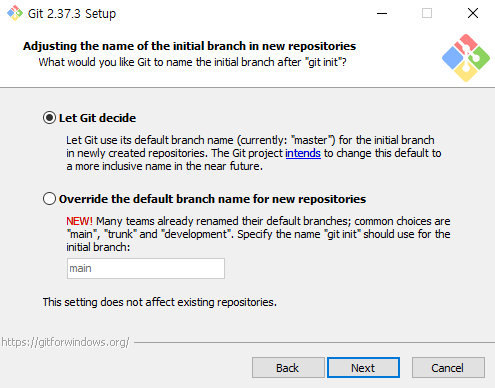
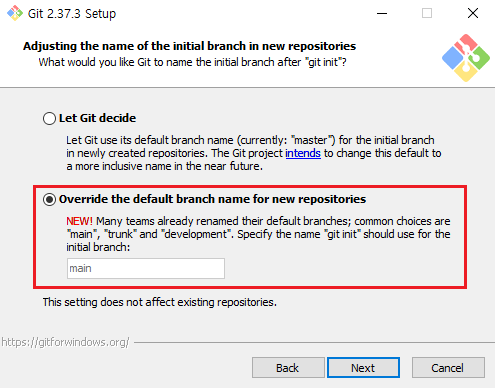
깃헙 베이스캠프 02-3장 수정

Changed region(s): [[0.0606, 0.4639, 0.9697, 0.7423], [0.0909, 0.2784, 0.1212, 0.3402]]

diff --git a/_md/basecamp-github/chapter02/02-1.md b/_md/basecamp-github/chapter02/02-1.md
@@ -8,7 +8,29 @@ date: 2024-12-14
 이번 장부터는 필요한 분들만 들으시면 됩니다. 주요한 내용으로는 개발자가 자주 사용하는 VSCode라는 툴에서 소스코드를 편집하고, 올리고, 합치고, 충돌이 났을 경우 해결하는 방법 등을 배웁니다. 디자이너나 기획자 분들이 배우기에는 다소 과한 챕터들이 있으니 참고해주세요.
 :::
 
-# 1. VSCode
+# 1. 필요한 소프트웨어
+
+이번 장에서는 깃헙을 컴퓨터에서 설치하여 사용하는 방법을 알아보도록 하겠습니다. 깃헙을 사용하기 위해서는 다음과 같은 소프트웨어가 필요합니다.
+
+1. VSCode
+2. Git
+
+Git만 설치하셔도 GitHub을 사용할 수 있지만, VSCode를 설치하면 더욱 편리하게 사용할 수 있습니다. 우리 수업에서는 순수하게 Git만 사용하는 것이 아니라 VSCode에서 편리하게 연동하여 사용할 수 있는 방법으로 가르쳐드립니다. 이렇게 강의를 하는 것은 2가지 이유가 있습니다.
+
+1. 실제로 실무에서도 Git만 켜고 사용하는 경우는 거의 없습니다. 대부분의 개발자들은 VSCode와 같은 툴을 사용하여 Git을 사용합니다.
+2. VSCode는 GitHub과 연동이 잘 되어 있어서 편리하게 사용할 수 있습니다.
+
+이 두가지 소프트웨어를 설치하고 설정하면 깃헙을 사용할 준비가 끝납니다. 이번 장에서는 VSCode를 설치하고 설정하는 방법을 알아보도록 하겠습니다.
+
+:::div{.callout}
+**Git과 GitHub의 차이점**
+
+Git은 버전 관리 시스템으로, 코드의 변경 이력을 관리하는 도구입니다. GitHub는 Git을 사용하는 프로젝트를 웹에서 관리할 수 있도록 한 웹 서비스입니다. 만든 사람도 다릅니다.
+
+쉽게 비유하자면 깃헙은 시간 여행이 가능한 구글드라이브고, 깃은 시간여행이 가능한 USB입니다. 공유가 되진 않지만 시간여행은 가능하죠. 엄격하게는 구분해야 하지만 보통 이 2개를 같은 의미로 말합니다.
+:::
+
+# 2. VSCode
 
 VSCode는 마이크로소프트에서 만든 무료 소스 코드 편집기입니다. GtiHub도 마이크로소프트에서 인수를 해서 둘 다 마이크로소프트에서 관리되고 있습니다. VSCode는 GitHub에서 `.`을 눌렀을 때 나오는 코드 편집기와 연동되며 같은 UI를 가지고 있습니다.
 
@@ -18,7 +40,7 @@ VSCode의 장점은 단지 에디터에만 있지 않습니다. 에디터와 연
 
 ![](/images/basecamp-github/ch02-1-1.png)
 
-# 2. VSCode 설치
+## 2.1 VSCode 설치
 
 VSCode는 무료로 설치할 수 있씁니다.
   
@@ -38,7 +60,7 @@ VSCode는 무료로 설치할 수 있씁니다.
 3. 작업할 폴더를 선택 후 '폴더 선택' 버튼 클릭
 :::
 
-# 3. VSCode 익스텐션
+## 2.2 VSCode 익스텐션
 
 익스텐션(Extension)은 VSC에 새로운 능력을 더해주는 '부가 기능'입니다. VSC는 심지어 인쇄를 할 수 있는 기능도 없습니다. 이러한 기능을 추가하기 위해 '부가 기능(익스텐션)'을 설치해야 합니다. VSC에 익스텐션을 추가하면, 코드 자동 완성, 디버깅 도구 등을 통해 코딩을 더 쉽고 빠르게 할 수 있습니다.
 
@@ -57,27 +79,82 @@ VSCode는 무료로 설치할 수 있씁니다.
 
 여기서는 GitHub과 관련된 익스텐션만 소개합니다. 설치를 안하셔도 실습을 하는데 무리가 없습니다.
 
-## 3.1 Git Graph
+### 2.1.1 Git Graph
 
 GitHub에서 내가 작업한 내용을 그래프로 보여주는 도구입니다. 버전을 커밋, 작업한 단위를 브랜치라고 부르는데요. 이 커밋과 브랜치를 시각화해주는 도구입니다.
 
-## 3.2 GitHub Copilot
+### 2.1.2 GitHub Copilot
 
 GitHub기반의 AI 기반 코드 자동 완성 도구입니다. ChatGPT와 Claude 등의 AI를 사용하여 코드를 작성할 때 도움을 줍니다. 실시간으로 추천을 해주기 때문에 코딩하는데 생산성을 극대화 시킬 수 있습니다. 위니브에서는 이 도구를 필수 도구로 지정하여 사용하고 있습니다. 해당 서비스는 유료 서비스이며, 개인/팀/기업용 요금제를 제공합니다.
 
-## 3.3 GitLens
+### 2.1.3 GitLens
 
 GitHub에 대한 상세 정보를 제공해주는 확장 프로그램입니다. 코드 작성자, 변경 이력 등을 확인할 수 있습니다.
 
-## 3.4 Gitmoji
+### 2.1.4 Gitmoji
 
 커밋 메시지에 이모지를 쉽게 추가할 수 있는 도구입니다. 보통 프로젝트를 시작할 때 어떤 이모지를 사용할지 정하고, 그 이모지를 사용하여 커밋 메시지를 작성합니다. 이렇게 하면 이모티콘 만으로도 어떤 작업을 했는지 분별할 수 있습니다.
 
 주요 이모지는 다음과 같습니다. `:lipstick:`와 같이 텍스트로도 작성할 수 있지만 보통은 익스텐션을 깔아서 손쉽게 추가합니다.
 
-✨ (sparkles): 새로운 기능 추가
-🐛 (bug): 버그 수정
-📝 (memo): 문서 업데이트
-🎨 (art): 코드 구조/포맷 개선
-⚡ (zap): 성능 개선
-💄 (lipstick): 화면 UI 개선
+* ✨ (sparkles): 새로운 기능 추가
+* 🐛 (bug): 버그 수정
+* 📝 (memo): 문서 업데이트
+* 🎨 (art): 코드 구조/포맷 개선
+* ⚡ (zap): 성능 개선
+* 💄 (lipstick): 화면 UI 개선
+
+# 3. Git
+
+앞서 깃헙을 시간 여행이 가능한 구글드라이고, 깃은 시간여행이 가능한 USB라고 비유했습니다. 깃은 리누스 토르발즈라는 분이, 깃헙은 톰 프레스턴워너(Tom Preston-Werner), 크리스 완스트래스(Chris Wanstrath), 피제이 하이엣(PJ Hyett)이 공동으로 회사를 설립하여 만든 서비스입니다.
+
+이렇게 시간여행을 가능하게 하여 코드를 관리할 수 있는 툴을 형상 관리(Configuration Management) 툴이라고 부릅니다. Git, SVN, CVS등에 툴이 있고 현재 가장 많이 사용되고 있는 것이 깃입니다.
+
+## 3.1 Git 설치
+
+::a[Git]{class='btn-link' href="https://git-scm.com/" target="\_blank"}
+
+위 서비스에 접속하여 알맞은 Download 버튼을 클릭하여 설치합니다. OS에 맞게 다운로드 버튼이 활성화 됩니다. 
+
+![](/images/basecamp-github/ch02-1-2.png)
+
+다만 설치할 때 옵션 중 변경하셔야 하는 옵션이 있습니다. 아래 이미지에서 하단에 `Override the default branch name for new repositories`를 체크해주세요. 이는 깃헙에서 사용하는 `main` 브랜치를 기본으로 사용하도록 설정하는 것입니다. 설정하지 않아도 문제가 되진 않지만 가능하면 변경하여 사용하는 것을 추천합니다.
+
+![](/images/github/chapter02-3-3.png)
+
+:::div{.callout}
+`master`라는 이름이 노예제를 연상시킨다고 하여 프로그래밍 언어에서도 이러한 언어를 사용하지 않는 추세입니다. 이를 `main`으로 변경하는 것이 추세이며, 깃헙에서도 `main`으로 변경되었습니다. 이를 변경하지 않아도 괜찮지만, 변경하는 것을 추천합니다.
+:::
+
+맥에는 이미 설치되어 있는 경우가 많으니 터미널에서 아래 명령어를 실행해보고 설치하세요.
+
+```bash
+$ git --version
+```
+
+# 4. 버전 확인 및 초기 설정
+
+VSCode를 실행시키고 `Terminal` > `New Terminal`을 클릭하여 터미널을 실행시킵니다. 단축키는 `Ctrl`을 누르고 빽틱(1 옆에 있는 특수문자)을 누르시면 됩니다. 터미널에서 아래 명령어를 입력하여 다운 받은 Git 버전을 확인할 수 있습니다.
+
+```bash
+$ git --version
+git version 2.37.3
+```
+
+Git을 사용하기 위해 사용자 정보를 설정합니다. 여기서 이름은 내가 깃헙에서 사용할 이름을, email은 깃헙 가입한 이메일을 입력합니다.
+
+:::div{.callout}
+🧐 해당 절차를 진행하지 않으면 뒤에 챕터에 푸쉬가 되지 않습니다.
+:::
+
+```bash
+$ git config --global user.name "hojun.lee"
+$ git config --global user.email email@example.com
+```
+
+제대로 입력이 되었는지 확인하기 위해 아래 명령어를 입력합니다.
+
+```bash
+$ git config --get user.name
+$ git config --get user.email
+```

diff --git a/_md/basecamp-github/chapter02/02-2.md b/_md/basecamp-github/chapter02/02-2.md
@@ -1,7 +1,66 @@
 ---
 chapter: 깃헙 상세히 살펴보기
-title: 실습환경 세팅
-date: 2024-12-14
+title: 기본명령어
+date: 2024-12-16
 ---
 
-# 1. 지금 바로 실습하세요
+# 1. 프로세스
+
+아래와 같은 프로세스로 작업이 진행됩니다. 여기서 `git init`과 같은 명령어는 다루지 않습니다. 이러한 명령어를 모두 다루면 처음에 의도했던 '초급자들이 허들을 넘기 위한 강의' 의미가 퇴색되기 때문입니다. 여기서는 개인 프로젝트를 하거나 다른 분들과 협업을 하는데 통상적으로 사용하는 명령어만 다룹니다.
+
+1. 레파지토리 생성
+2. 레파티토리 연결
+3. 수정한 파일 업로드(Commit, Push)
+4. 수정한 파일 다운로드(Pull)
+
+이 프로세스를 하나씩 실행해보도록 하겠습니다. 여기서 4번은 지금 실습하진 않습니다.
+
+# 2. 실습해보기
+
+아래와 같은 순서로 실습을 진행해보겠습니다.
+
+1. (1번) GitHub에서 레파지토리를 생성합니다. 가능하면 앞서 실습한 것처럼 README.md 파일 생성을 체크하셔서 생성해주세요. 그게 아니라면 GitHub에서 제시한 명령어들을 모두 터미널에 입력해야 합니다.
+2. (2번) 레파지토리에서 `Code` 버튼을 눌러서 주소를 복사합니다.
+    ![](/images/basecamp-github/ch02-2-1.png)
+3. (2번) 폴더를 하나 만들고, VSCode를 연다음 `File > Open Folder`를 클릭해주세요. 내가 만든 폴더를 클릭해주세요. 이 폴더와 레파지토리를 연결할 것입니다.
+4. (2번) 터미널을 열어서 `git clone 복사한주소`를 입력합니다. 터미널에서 붙여넣는 명령어는 `Ctrl + Shift + V` 또는 `Shift + Insert`입니다.
+5. (3번) VSCode에서 `test.txt` 파일을 만들어주세요. 그리고 터미널에 아래 순서대로 입력하고 엔터를 하나씩 입력해주세요.
+    1. `git add .`를 입력한 후 엔터
+    2. `git commit -m "커밋메시지"`를 입력한 후 엔터
+    3. `git push`를 입력한 후 엔터
+    4. GitHub 로그인 창이 뜨고 로그인 하면 파일이 업로드 됩니다.
+
+:::div{.callout}
+매번 로그인을 할 필요는 없습니다. 처음에 로그인을 하면 다음부터는 로그인을 하지 않아도 됩니다.
+:::
+
+# 3. 기본 명령어
+
+아래 4개 키워드를 기억해주세요. 각각 받아오고, 추가하고, 버전을 만들고, 보내는 것입니다.
+
+![](/images/github/chapter02-1-1.png)
+
+## 3.1 받아오기
+`git pull`명령어는 다른 사람이 올린 최신 변경사항을 내 컴퓨터로 가져옵니다. 마치 클라우드에서 파일을 다운로드하는 것처럼요. 항상 작업 시작 전에 실행하는 것이 좋습니다.
+
+## 3.2 추가하기
+`git add` 명령어는 내가 변경한 파일들을 깃허브에 올리기 위한 준비를 합니다. 택배를 보낼 때 물건을 박스에 담는 것과 비슷합니다. 
+* `git add .` : 모든 변경된 파일을 추가 (점(.)은 '모든 것'을 의미합니다)
+* `git add 파일명` : 특정 파일만 추가
+
+## 3.3 버전만들기 
+`git commit` 명령어는 변경사항에 대한 설명을 붙여서 하나의 버전으로 만듭니다. 택배 상자에 라벨을 붙이는 것과 같습니다.
+* `git commit -m "메시지"` : 따옴표 안에 변경사항을 간단히 설명합니다
+* 예시: `git commit -m "로그인 버튼 추가"`
+
+## 3.4 보내기
+`git push` 명령어는 내가 만든 버전을 깃허브 서버에 업로드하는 명령어입니다. 실제로 택배를 보내는 단계와 같습니다.
+
+:::div{.callout}
+💡 실무에서 자주 사용하는 순서
+1. 작업 시작 전: `git pull` (다른 사람의 변경사항 받아오기)
+2. 작업 후: 
+   - `git add .` (변경한 파일 모두 추가)
+   - `git commit -m "작업내용"` (변경사항 설명 달기)
+   - `git push` (깃허브에 올리기)
+:::

diff --git a/_md/basecamp-github/chapter02/02-3.md b/_md/basecamp-github/chapter02/02-3.md
@@ -1,7 +1,13 @@
 ---
 chapter: 깃헙 상세히 살펴보기
-title: 실습환경 세팅
+title: VSCode에서 해보기
 date: 2024-12-14
 ---
 
-# 1. 지금 바로 실습하세요
+# 1. VSCdoe에 깃헙
+
+앞에서 배웠던 명령어 4개는 VSCode에서는 버튼화 되어 있습니다. VSCode에서는 대부분의 기능이 버튼화 되어 있습니다. 다만 위 4개의 명령어는 어떤 툴을 사용하시던 기본이 되는 명령어이기 때문에 암기를 하시는 것을 권합니다.
+
+# 2. VSCode에서 깃헙 사용하기
+
+VSCode에서 깃헙을 사용하는 방법은 처음에 깃헙에서 `.dev`로 가서 편집했던 것과 같습니다. 원하는 파일을 수정하고, 삭제하고, 생성한 다음 3번째 탭으로 들어가서 메시지를 입력한 다음 `Commit`을 누르면 됩니다. 그리고 `push`를 누르면 깃헙에 반영이 됩니다.
